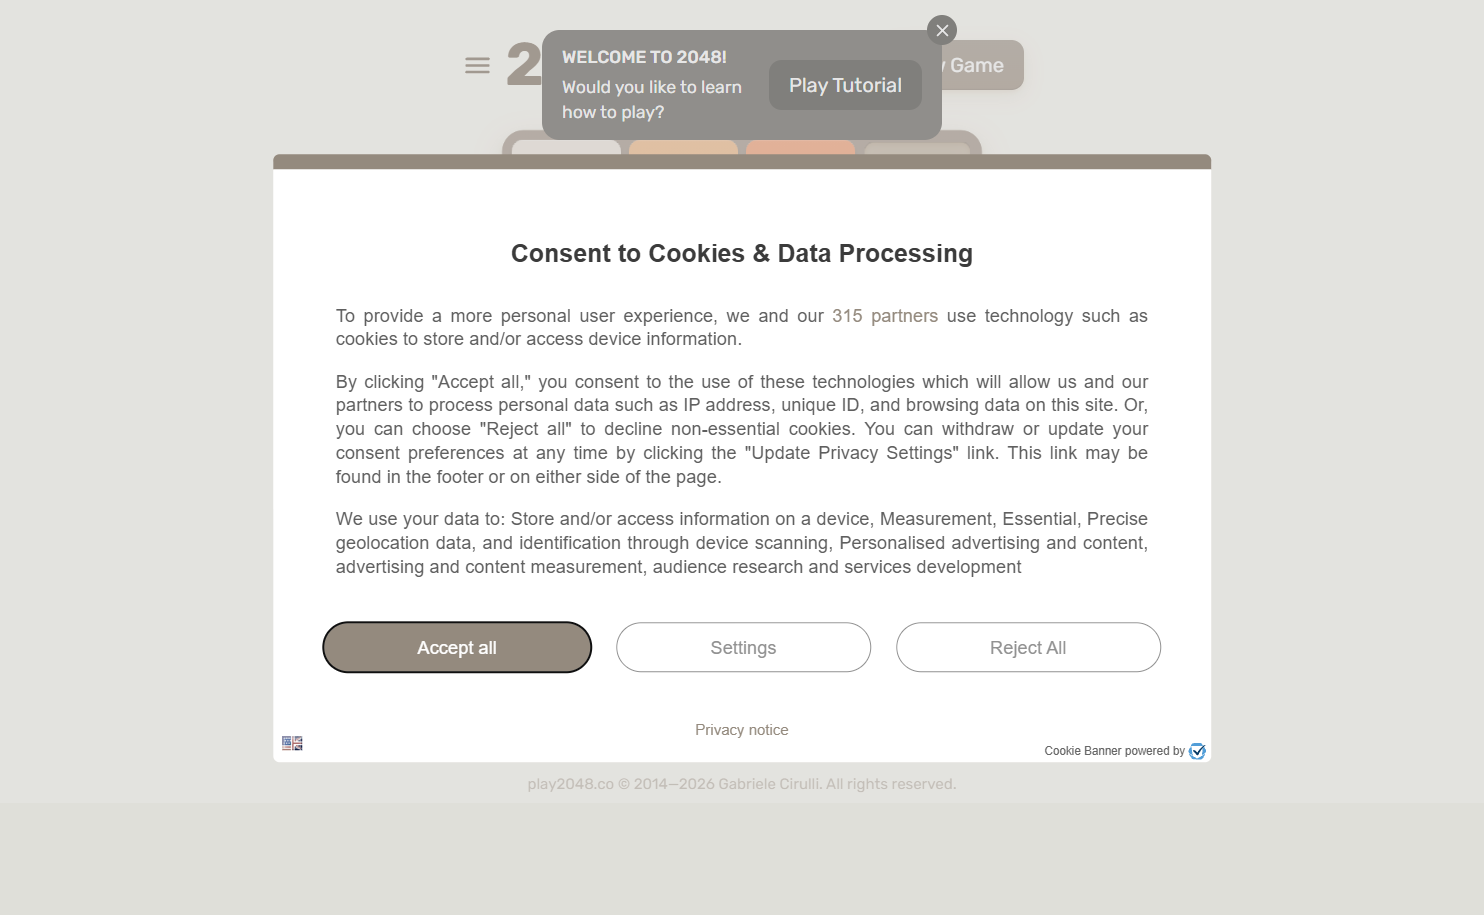
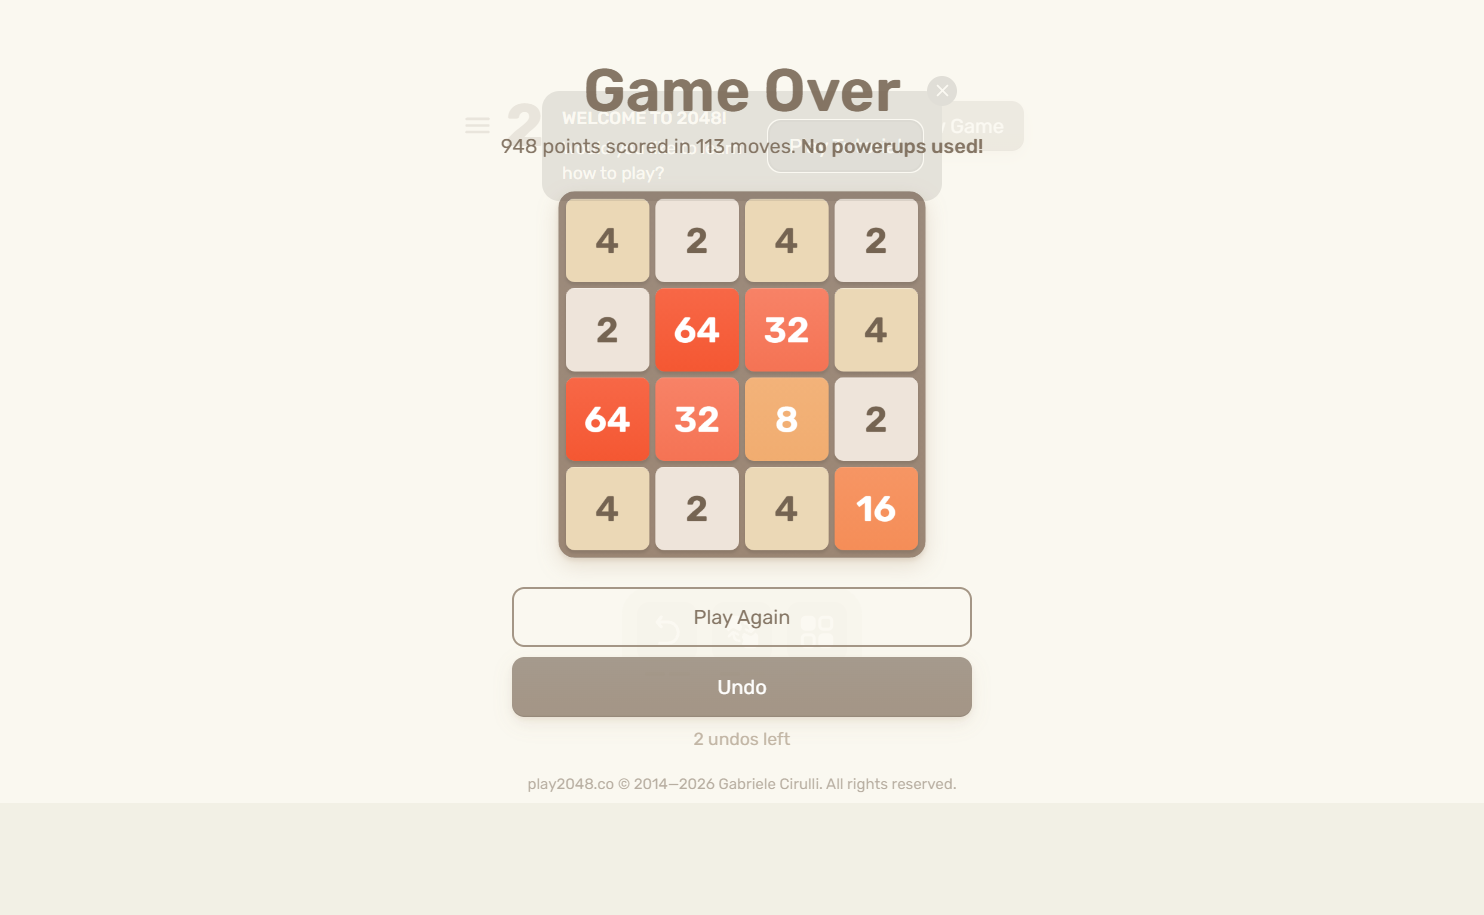
ok

Changed region(s): [[0.186, 0.0, 0.8369, 0.8262], [0.7129, 0.7956, 0.8059, 0.8262], [0.186, 0.7956, 0.217, 0.8262]]

diff --git a/week_2/game/dqn_game.py b/week_2/game/dqn_game.py
@@ -82,33 +82,33 @@ class Browser2048Env:
         try:
             score = self.driver.execute_script("""
                 const elements = [...document.querySelectorAll('*')];
-    
+
                 for (const el of elements) {
                     if ((el.innerText || '').trim() === 'SCORE') {
-    
+
                         const parent = el.parentElement;
-    
+
                         if (!parent) {
                             continue;
                         }
-    
+
                         const numbers = parent.innerText.match(/\\d+/g);
-    
+
                         if (numbers && numbers.length > 0) {
                             return parseInt(numbers[0], 10);
                         }
                     }
                 }
-    
+
                 return null;
             """)
-    
+
             if score is not None:
                 return int(score)
-    
+
         except Exception as e:
             print("SCORE ERROR:", e)
-    
+
         return self.last_score
 
     def get_screenshot_state(self):
@@ -185,7 +185,7 @@ class Browser2048Env:
         try:
             state = self.get_screenshot_state()
 
-            print("ACTION:", action_idx)
+            #print("ACTION:", action_idx)
 
             ActionChains(self.driver).send_keys(
                 self.actions[action_idx]
@@ -204,12 +204,12 @@ class Browser2048Env:
 
             done = self.is_game_over()
 
-            print(
-                f"STATE CHANGED: {not np.array_equal(state, next_state)}"
-            )
-            print(f"SCORE: {current_score}")
-            print(f"LAST SCORE: {self.last_score}")
-            print(f"SCORE DIFF: {score_diff}")
+            # print(
+            #     f"STATE CHANGED: {not np.array_equal(state, next_state)}"
+            # )
+            # print(f"SCORE: {current_score}")
+            # print(f"LAST SCORE: {self.last_score}")
+            # print(f"SCORE DIFF: {score_diff}")
 
             # Reward
             if done:
@@ -268,7 +268,7 @@ def train():
     EPS_DECAY = 0.995
     TARGET_UPDATE = 10
     LEARNING_RATE = 0.00025
-    NUM_EPISODES = 50
+    NUM_EPISODES = 10
 
     env = Browser2048Env(headless=False)
 
@@ -300,7 +300,7 @@ def train():
                     action = q_values.argmax(dim=1).item()
 
             next_state, reward, done = env.step(action)
-            print(f"Шаг выполнен | Reward: {reward} | Done: {done}")
+            #print(f"Шаг выполнен | Reward: {reward} | Done: {done}")
             # Выполнение действия в браузере
             #next_state, reward, done = env.step(action)
             total_reward += reward
